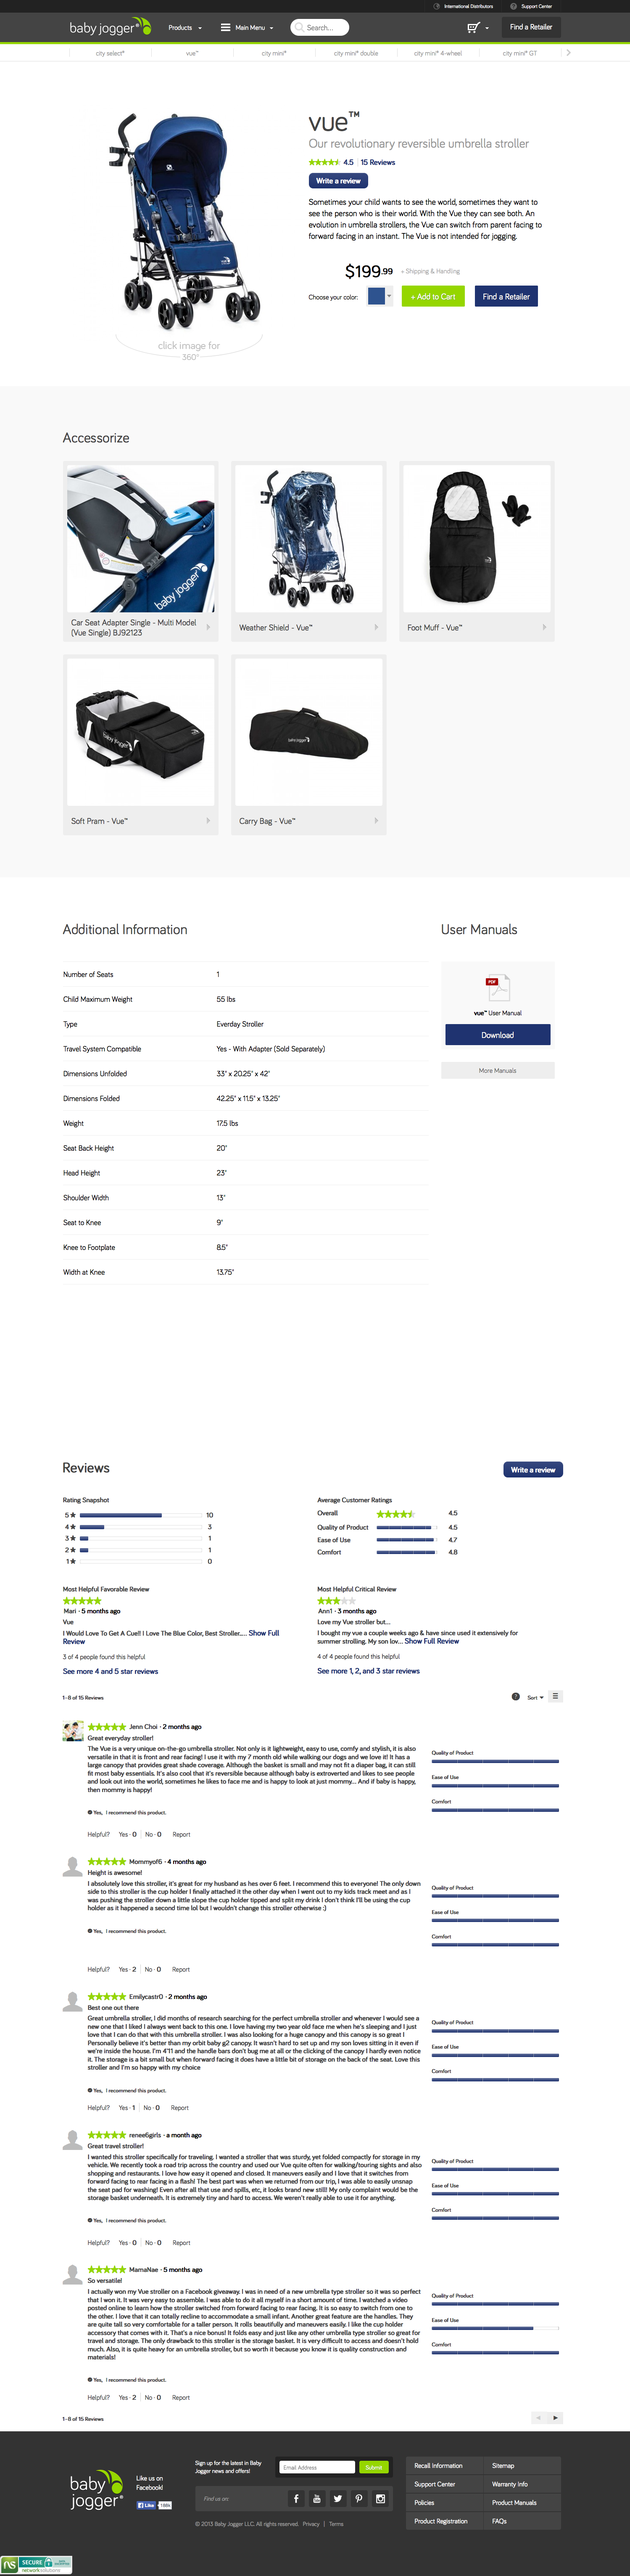
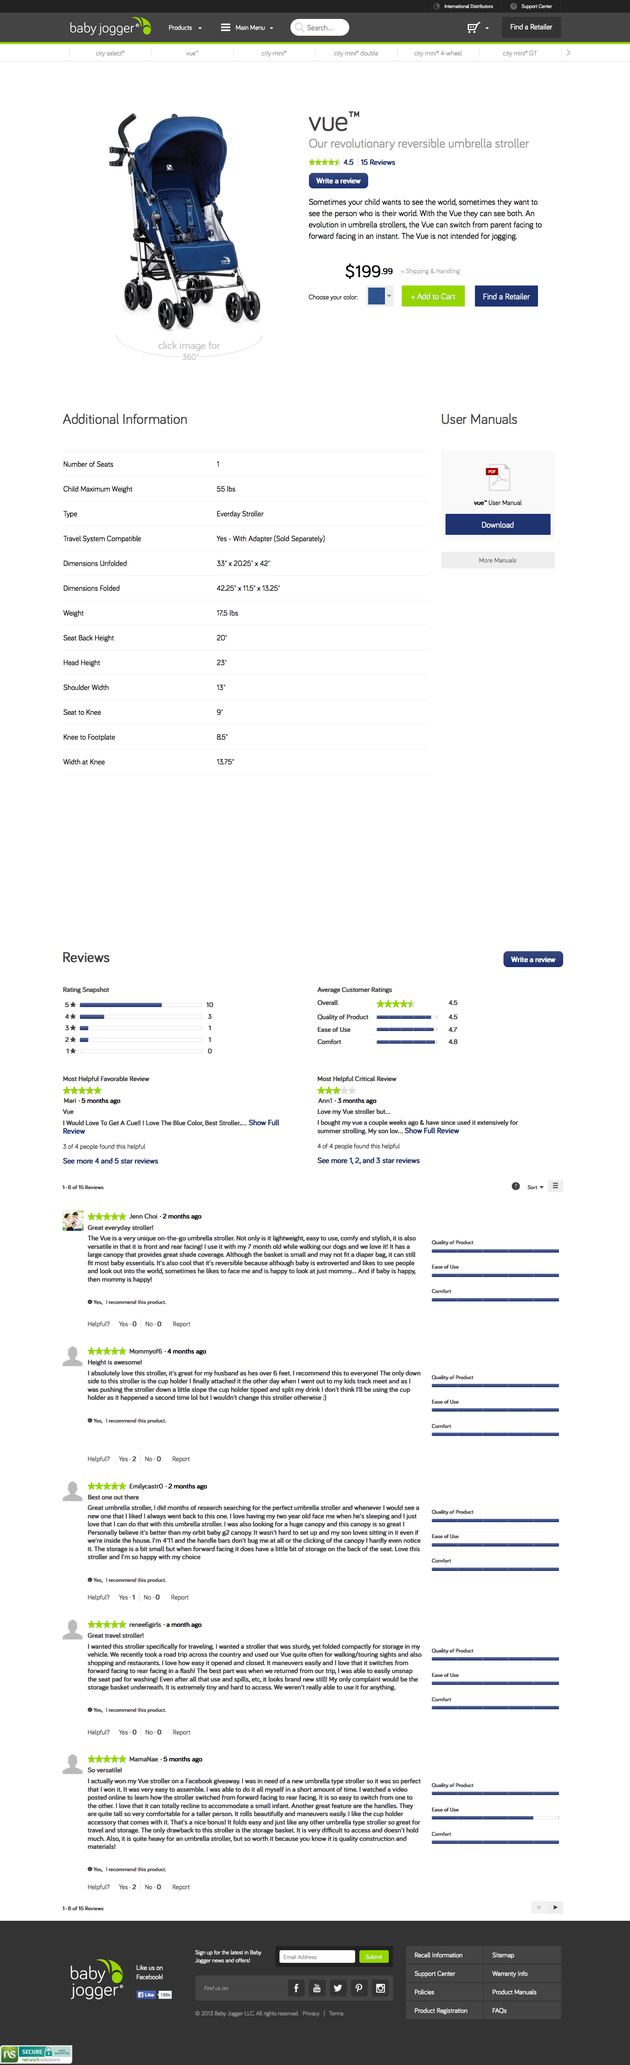
MOAR DESIGN TWEAKS

diff --git a/public/stylesheets/style.css b/public/stylesheets/style.css
@@ -1,8 +1,9 @@
 body {font: 14px Helvetica, Arial, sans-serif; padding: 0; margin: 0;}
-.BVTweeViews {padding: 50px 50px 0; font: 14px Helvetica, Arial, sans-serif; background: url('/images/bj_bg.png') no-repeat 0 0; margin: auto 0; height: 6070px;}
+.BVTweeViews {padding: 50px 50px 0; font: 14px Helvetica, Arial, sans-serif; background: url('/images/bj_bg.png') no-repeat 0 0; margin: auto 0; height: 4860px;}
 a {color: #292f33; text-decoration: none; font-style: italic;}
 	a:hover {color: #5ea9dd;}
 form {margin-top: 110px;}
+.TVCampaigns {padding: 100px;}
 
 /** Widget Link **/
 
@@ -21,7 +22,7 @@ a.fancybox {float: left; width: 300px; margin-top: 320px; margin-left: 950px;}
 
 /** TweeView Quicktake **/
 
-.tvquicktake {position: absolute; display: block; margin: 3090px 0 50px 90px; padding-bottom: 50px; color: #292f33; width: auto; height: 240px; overflow: hidden;}
+.tvquicktake {position: absolute; display: block; margin: 1850px 0 50px 90px; padding-bottom: 50px; color: #292f33; width: auto; height: 240px; overflow: hidden;}
 	.tvqttitle {margin-bottom: 20px; display: block;}
 	h2.tvqttitle {font-size: 30px; color: #5ea9dd; font-style: italic; margin-top: 0; padding-bottom: 10px; display: inline;}
 	.tvquicktake a.tvpreview {font-style: normal; color: #292f33; display: block; width: auto; cursor: default;}
